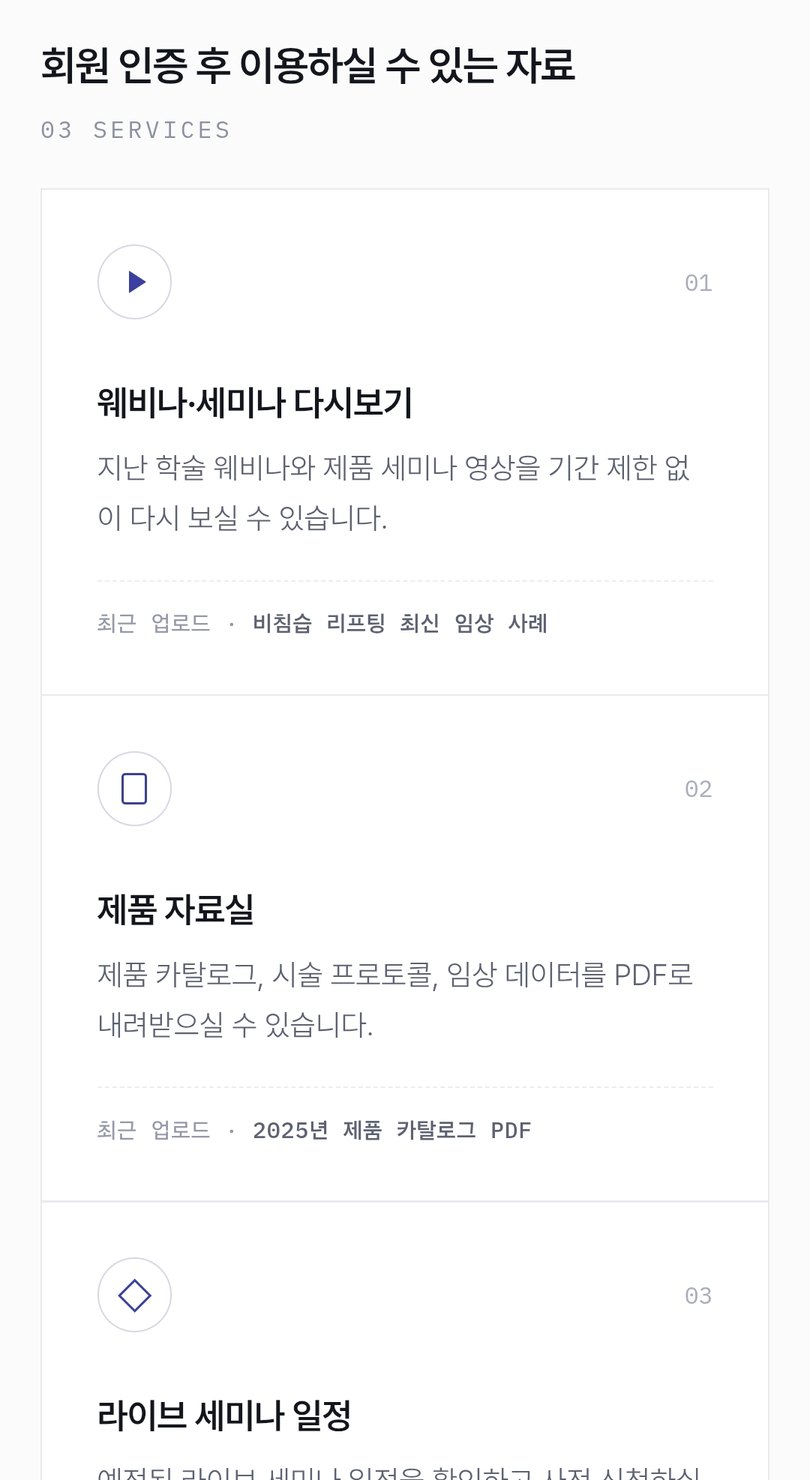
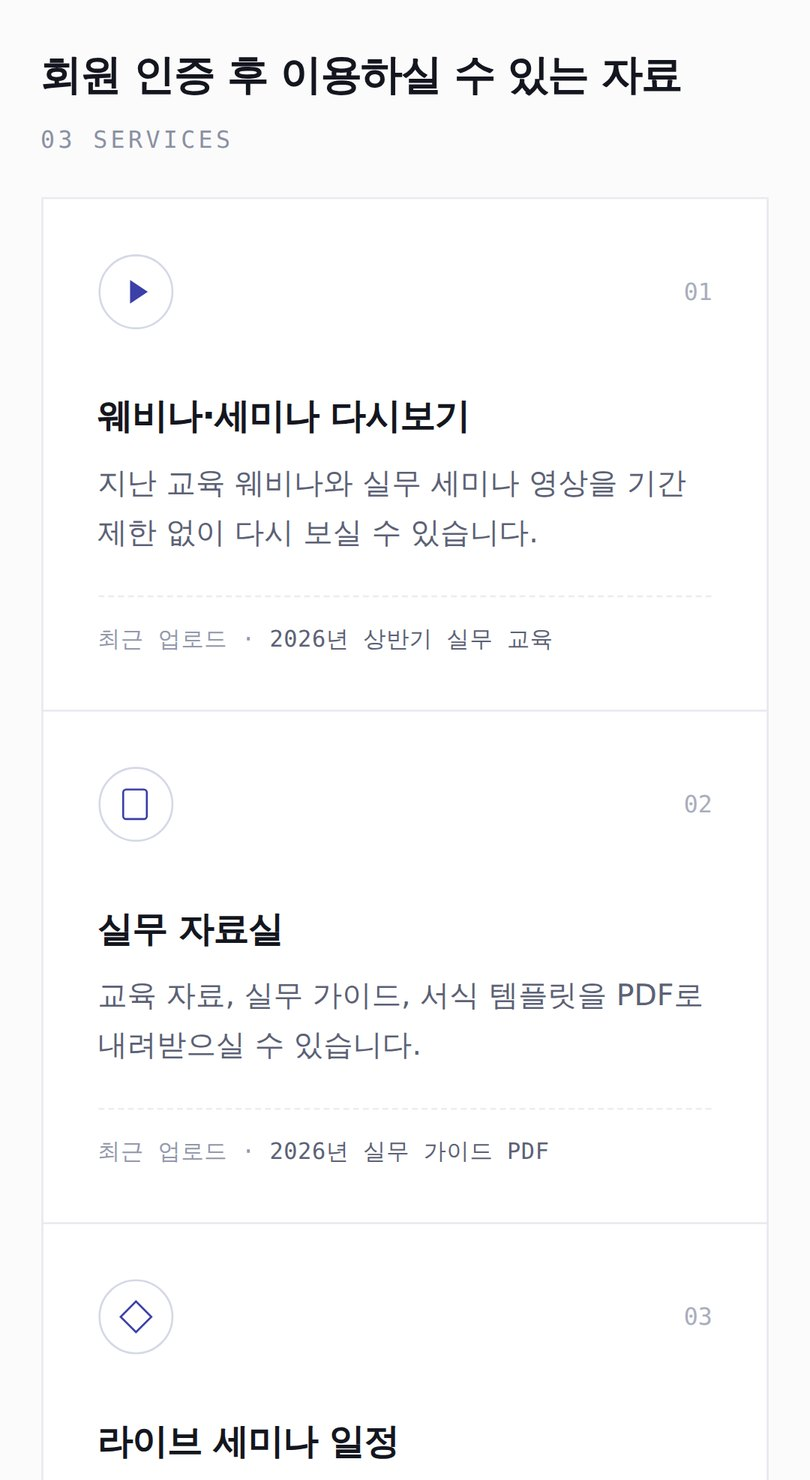
Make work 05 copy and screenshots industry-neutral
의뢰인 프로젝트의 업종이 드러나지 않도록 문구와 스크린샷을 모두
일반화했습니다.

- 본문에서 특정 직군 지칭 제거, 면허·자격 일반 표현으로 교체
- 스크린샷 6장을 문구 수정 후의 데모 화면으로 재촬영해 교체
  (VERIFY Partners · 사업자 회원 / 자격 보유 회원)
- auth-admin.jpg 제거 — 미배치 상태였고 재촬영 대상

Claude-Session: https://claude.ai/code/session_01HZ2ccqveZ9fPxdjPEzqgGf

diff --git a/app/work/member-auth/page.tsx b/app/work/member-auth/page.tsx
@@ -56,7 +56,7 @@ const STEPS = [
     no: "03",
     file: "Supabase",
     title: "면허증 수동 인증",
-    desc: "의사 면허번호를 자동으로 검증하는 공개 정부 API는 존재하지 않는다는 것을 확인했습니다. 그래서 이 경로는 서류 업로드와 사람의 확인으로 설계했습니다.",
+    desc: "면허·자격증 번호를 자동으로 검증해주는 공개 정부 API는 사업자등록과 달리 찾지 못했습니다. 그래서 이 경로는 서류 업로드와 사람의 확인으로 설계했습니다.",
     points: [
       "서류 이미지를 Supabase Storage에 업로드",
       "누가 파일을 올릴 수 있는지 제어하는 접근 정책 직접 설계",
@@ -202,9 +202,9 @@ export default function MemberAuthPage() {
               maxWidth: 720,
             }}
           >
-            회원 자격을 어떻게 검증할 것인가. 사업자등록이 있는 사람과 없는
-            사람이 함께 있는 집단을 대상으로, 인증 경로를 둘로 나눠 직접
-            구현한 연습 프로젝트입니다.
+            회원 자격을 어떻게 검증할 것인가. 같은 면허·자격을 가지고도
+            사업자등록이 있는 사람과 없는 사람이 섞여 있어, 인증 경로를 둘로
+            나눠 직접 구현한 연습 프로젝트입니다.
           </p>
 
           <PhoneRow shots={MAIN_SHOTS} />
@@ -213,7 +213,7 @@ export default function MemberAuthPage() {
             rows={[
               {
                 label: "문제",
-                text: "전문직 대상 회원제 서비스를 제안받고 조사해보니, 자격 검증은 한 가지 방법으로 풀리지 않았습니다. 사업자등록이 있는 사람(개원의)과 없는 사람(봉직의)이 함께 존재하기 때문입니다. 인증 방식을 하나만 두면 절반은 가입 자체가 막힙니다.",
+                text: "면허·자격 보유자를 대상으로 한 회원제 서비스를 제안받고 조사해보니, 자격 검증은 한 가지 방법으로 풀리지 않았습니다. 같은 자격을 가지고도 사업자등록이 있는 사람과 없는 사람이 함께 존재하기 때문입니다. 인증 방식을 하나만 두면 절반은 가입 자체가 막힙니다.",
               },
               {
                 label: "해결",

diff --git a/app/page.tsx b/app/page.tsx
@@ -435,7 +435,7 @@ export default function Home() {
             href="/work/member-auth"
             label="05 / AUTH"
             title="자격 인증형 회원제 시스템"
-            desc="전문직 대상 회원제의 자격 검증을 두 갈래 인증 경로로 구현한 데모"
+            desc="면허·자격 보유자 회원제의 자격 검증을 두 갈래 인증 경로로 구현한 데모"
             image={
               <div
                 style={{
